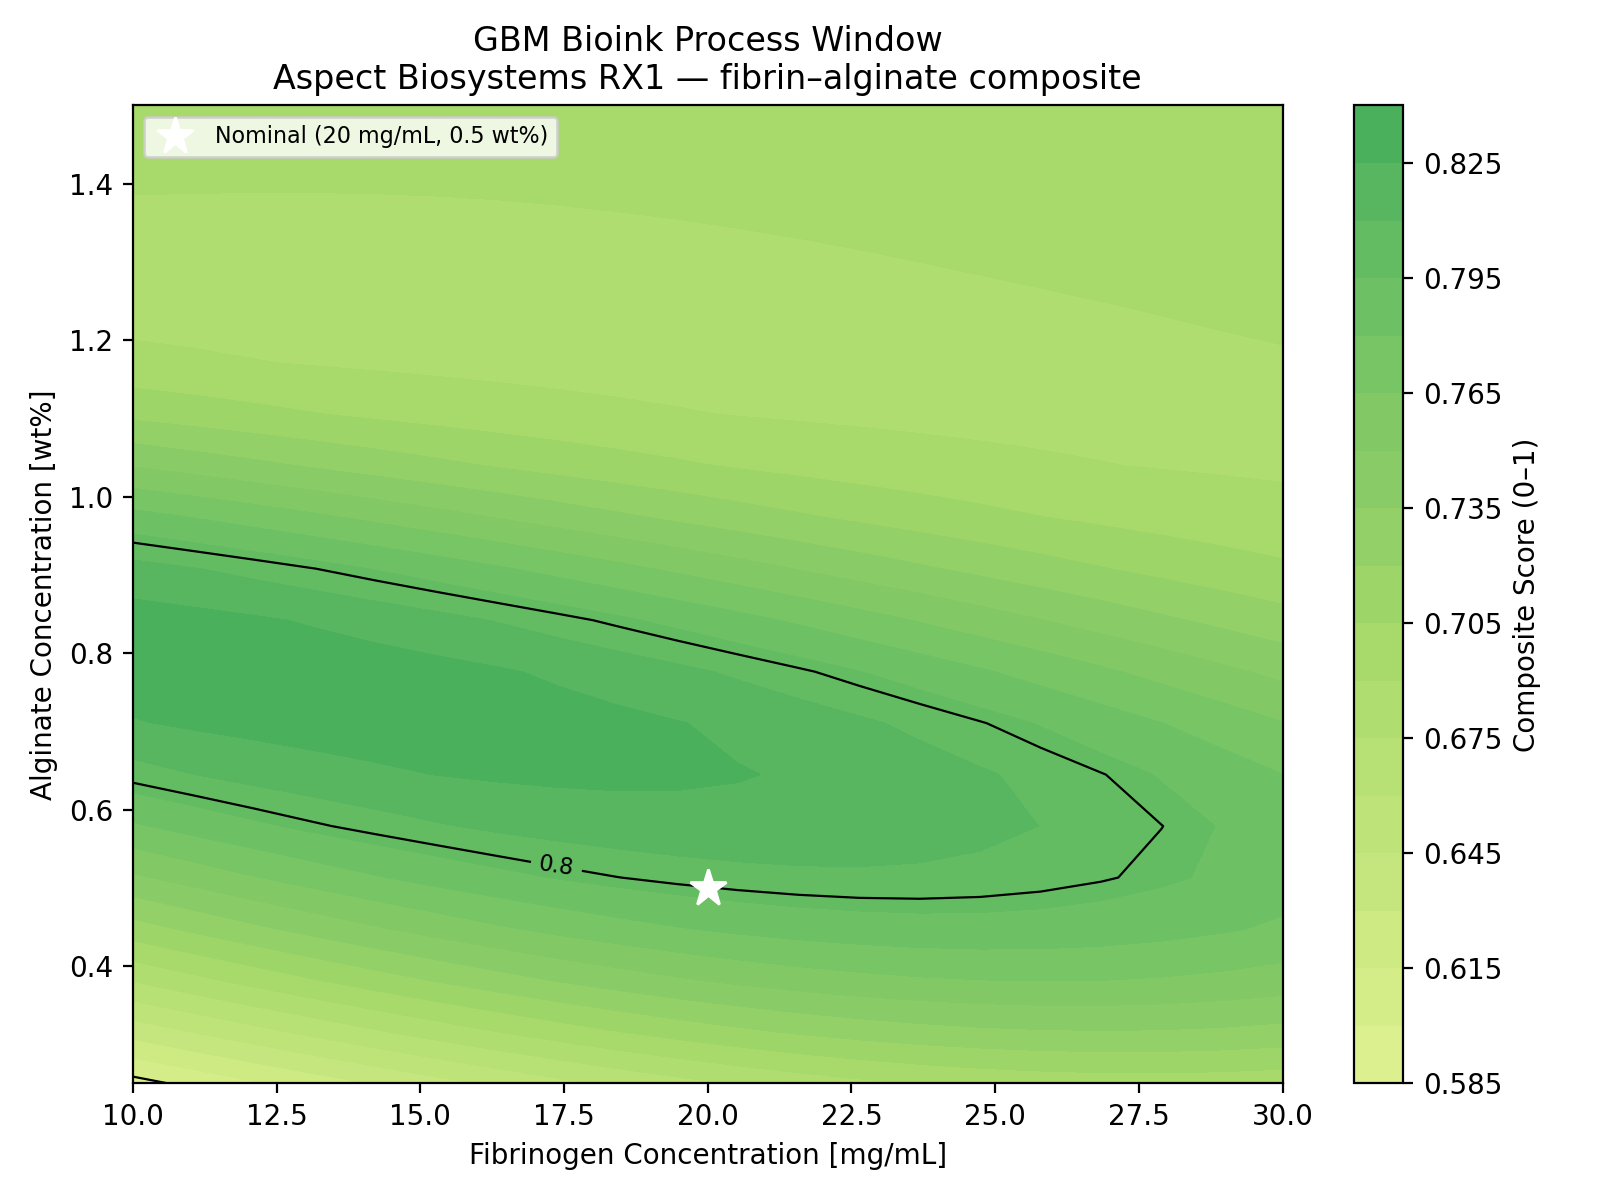
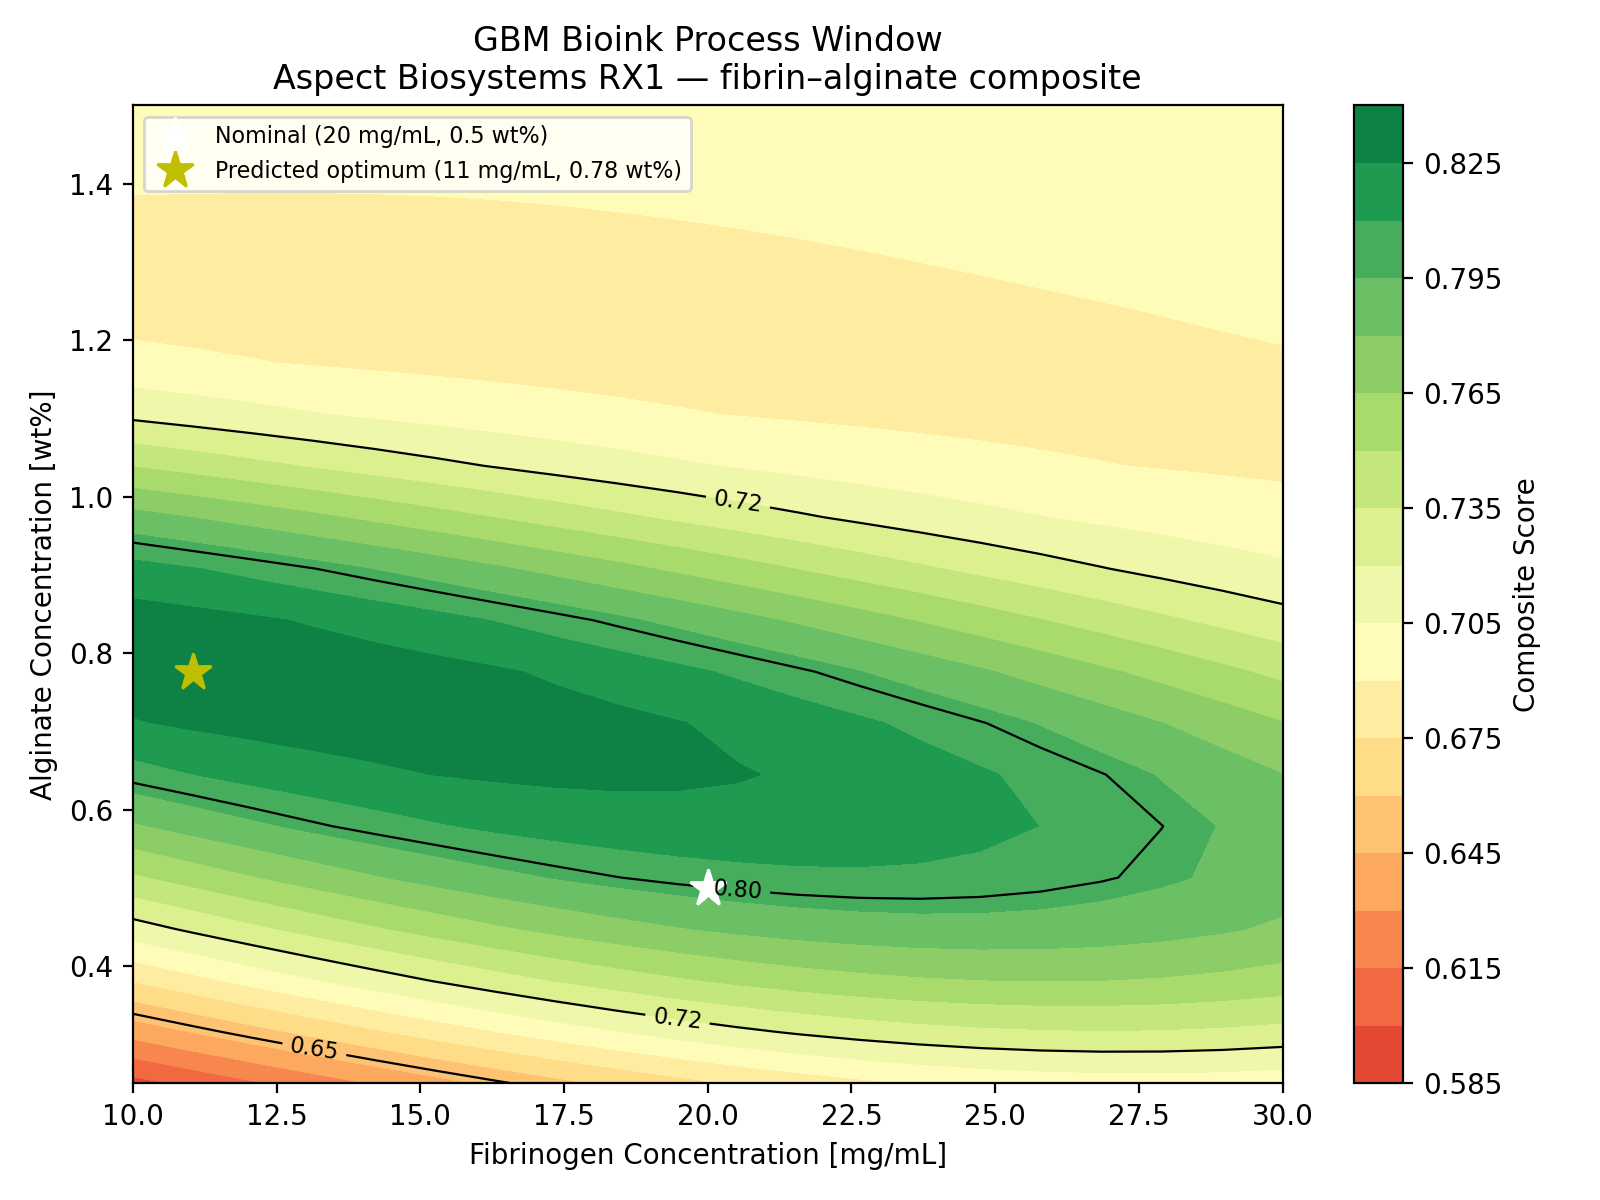
Update README writing and improve process window figure
- Add Background, intro, result, and citation sections to README
- Tighten process window colormap range (0.55-0.85) for higher contrast
- Add yellow star marker for predicted optimum (11 mg/mL, 0.78% alg)
- Update contour lines to 0.65, 0.72, 0.80

diff --git a/process_window.py b/process_window.py
@@ -119,14 +119,21 @@ def plot_process_window(FIB_grid, ALG_grid, scores,
     """Composite score heatmap with nominal formulation marker."""
     fig, ax = plt.subplots(figsize=(8, 6))
     cf = ax.contourf(FIB_grid, ALG_grid, scores, levels=20,
-                     cmap="RdYlGn", vmin=0, vmax=1)
-    cs = ax.contour(FIB_grid, ALG_grid, scores, levels=[0.4, 0.6, 0.8],
+                     cmap="RdYlGn", vmin=0.55, vmax=0.85)
+    cs = ax.contour(FIB_grid, ALG_grid, scores, levels=[0.65, 0.72, 0.80],
                     colors="k", linewidths=0.8)
-    ax.clabel(cs, fmt="%.1f", fontsize=8)
-    plt.colorbar(cf, ax=ax, label="Composite Score (0–1)")
+    ax.clabel(cs, fmt="%.2f", fontsize=8)
+    plt.colorbar(cf, ax=ax, label="Composite Score")
 
     ax.plot(c_fib_nom, c_alg_nom, "w*", markersize=14,
             label=f"Nominal ({c_fib_nom:.0f} mg/mL, {c_alg_nom} wt%)")
+
+    best_idx = np.unravel_index(np.argmax(scores), scores.shape)
+    best_fib = FIB_grid[best_idx]
+    best_alg = ALG_grid[best_idx]
+    ax.plot(best_fib, best_alg, "y*", markersize=14,
+            label=f"Predicted optimum ({best_fib:.0f} mg/mL, {best_alg:.2f} wt%)")
+
     ax.legend(fontsize=8, loc="upper left")
 
     ax.set_xlabel("Fibrinogen Concentration [mg/mL]")

diff --git a/README.md b/README.md
@@ -1,22 +1,34 @@
-# GBM Bioink Formulation Optimization Model
+# Glioblastoma Bioink Formulation Optimization Model
 
-A computational model that predicts whether a fibrin–alginate bioink formulation will successfully print a 3D glioblastoma (GBM) tumor model on the **Aspect Biosystems RX1** microfluidic bioprinter — and whether the printed construct will support GBM cell viability over a 30-day culture period.
-
-![Process Window](figures/process_window.png)
-
-*The white star marks the published Aspect Biosystems operating point (Lee et al. 2019: 20 mg/mL fibrinogen, 0.5% alginate). It sits inside the high-scoring (green) region of the process window.*
+I created a computational model that predicts whether a fibrin–alginate bioink formulation will successfully print a 3D glioblastoma (GBM) tumor model based on the published Aspect Biosystems ink formulation (Lee et al. 2019). 3D printed tissues make it possible for treatments to be clinically tested without animal subjects, and more accurately replicate the mechanical and structural environment of real tumors than 2D cell cultures.
 
 ---
 
 ## Background
 
-Glioblastoma multiforme (GBM) is the most lethal primary brain cancer, with a median survival of 14.6 months. Conventional 2D cell culture models fail to predict drug efficacy because they don't replicate the mechanical microenvironment of brain tissue (~200–500 Pa stiffness). Lee et al. (2019) demonstrated that 3D bioprinted fibrin–alginate constructs using the Aspect Biosystems RX1 produced GBM tumor models with significantly higher drug resistance than 2D cultures — more closely matching clinical reality.
+Glioblastoma multiforme (GBM) is the most aggressive primary brain cancer, with a median survival of 14.6 months following diagnosis (Stupp et al. 2005).
 
-Finding a printable, cell-compatible formulation currently requires iterative bench experiments. This model screens 400 formulations in seconds by chaining 7 physical sub-models, each grounded in peer-reviewed literature.
+The current standard treatment consists of surgical resection followed by concurrent radiotherapy and temozolomide chemotherapy (Stupp et al. 2005). This procedure has remained largely unchanged since 2005. The limited progress is partially due to the difficulty of predicting drug response. In a 2D plate, GBM cells are far more responsive to chemotherapeutics than they are in patients. The mechanical stiffness of the brain extracellular matrix (~200–500 Pa) (Budday et al. 2017) and the 3D structure of the tumor are not captured by a flat culture dish.
+
+3D bioprinted tumor models are capable of more predictive drug screening and testing. Lee et al. (2019) demonstrated that GBM cells printed in a fibrin–alginate matrix using the Aspect Biosystems RX1 printer exhibited significantly higher TMZ resistance than the same cells on a 2D plate.
+
+---
+
+## The Process Window
+
+![Process Window](figures/process_window.png)
+
+*The white star marks the published Aspect Biosystems operating point (20 mg/mL fibrinogen, 0.5% alginate, Lee et al. 2019).*
+
+The process window is a heatmap of composite scores across 400 formulations (20×20 grid: fibrinogen 10–30 mg/mL × alginate 0.25–1.5%). Each score is a weighted sum of four sub-scores: shear-induced cell viability, filament shape fidelity, initial gel stiffness match to brain tissue, and long-term ECM stiffness after 30 days of culture.
+
+Only ~20% of the formulation space scores above 0.8, a narrow high-performance band. The published Aspect operating point sits inside it (score 0.80), confirming it as a strong formulation. The model predicts a slightly different optimum at **11 mg/mL fibrinogen, 0.78% alginate** (score 0.84), where higher alginate concentration improves shape retention without meaningfully degrading ECM maturation. This is a testable hypothesis, not a claim that the published formulation is wrong, but a suggestion of where to look next.
 
 ---
 
 ## What the Model Does
+
+Finding a printable, cell-compatible formulation currently requires iterative bench experiments. This model screens 400 formulations in seconds by chaining 7 physical sub-models, each grounded in peer-reviewed literature.
 
 Seven physical layers are solved in sequence for each formulation point:
 
@@ -58,13 +70,15 @@ The process window identifies the printable, biocompatible formulation space acr
 
 The published Aspect/UBC operating point (Lee et al. 2019) falls within the high-scoring region, providing direct validation against real experimental data.
 
+The model predicts a composite score of 0.84 at **11 mg/mL fibrinogen, 0.78% alginate**, which is slightly higher than the published nominal point (score 0.80). The difference is driven by shape integrity. A higher alginate concentration increases ink viscosity, giving the filament more resistance to surface-tension-driven spreading before gelation occurs. The nominal formulation trades some shape score for less shear stress on the cells during extrusion due to a lower fibrinogen concentration. Both formulations sit within the high-scoring region, with the model suggesting that slightly increasing the alginate and reducing the fibrinogen could improve printability without compromising cell survival or ECM maturation.
+
 ### Nominal formulation checks
 
 | Parameter | Value | Target | Status |
 |---|---|---|---|
-| G' (initial gel stiffness) | 29.8 Pa | ~30 Pa (brain-mimicking) | ✓ |
-| Wall shear stress | 7.3 Pa | < 100 Pa (τ_crit) | ✓ |
-| G'_eff at 30 days | 278 Pa | ~300 Pa (G'_opt) | ✓ |
+| G' (initial gel stiffness) | 29.8 Pa | ~30 Pa (Budday et al. 2017) | ✓ |
+| Wall shear stress | 7.3 Pa | < 100 Pa τ_crit (Nair et al. 2009) | ✓ |
+| G'_eff at 30 days | 278 Pa | ~300 Pa (Budday et al. 2017) | ✓ |
 | t_gel | 2.3 s | < t_spread | ✓ |
 
 ---
@@ -73,13 +87,13 @@ The published Aspect/UBC operating point (Lee et al. 2019) falls within the high
 
 | Layer | Figure |
 |---|---|
-| L1 — Viscosity | ![](figures/layer1_viscosity.png) |
-| L2 — Shear Stress | ![](figures/layer2_shear.png) |
-| L3 — Kinetics | ![](figures/layer3_kinetics.png) |
-| L4 — Ca²⁺ Diffusion | ![](figures/layer4_diffusion.png) |
-| L5 — Shape Fidelity | ![](figures/layer5_shape.png) |
-| L6 — Stiffness | ![](figures/layer6_stiffness.png) |
-| L7 — ECM Evolution | ![](figures/layer7_ecm.png) |
+| L1:Viscosity | ![](figures/layer1_viscosity.png) |
+| L2:Shear Stress | ![](figures/layer2_shear.png) |
+| L3:Kinetics | ![](figures/layer3_kinetics.png) |
+| L4:Ca²⁺ Diffusion | ![](figures/layer4_diffusion.png) |
+| L5:Shape Fidelity | ![](figures/layer5_shape.png) |
+| L6:Stiffness | ![](figures/layer6_stiffness.png) |
+| L7:ECM Evolution | ![](figures/layer7_ecm.png) |
 
 ---
 
@@ -142,6 +156,7 @@ bioink_model/
 6. Draget, K.I. et al. (2004). Alginates from algae. *Food Hydrocolloids*, 18(2), 213–228.
 7. Ryan, E.A. et al. (1999). Structural origins of fibrin clot rheology. *Biophys. J.*, 77(5), 2813–2826.
 8. Sundararaghavan, H.G. et al. (2008). Genipin-induced changes in collagen gels. *Biotechnol. Bioeng.*, 102(2), 632–643.
+9. Stupp, R. et al. (2005). Radiotherapy plus concomitant and adjuvant temozolomide for glioblastoma. *N. Engl. J. Med.*, 352(10), 987–996.
 
 ---
 
